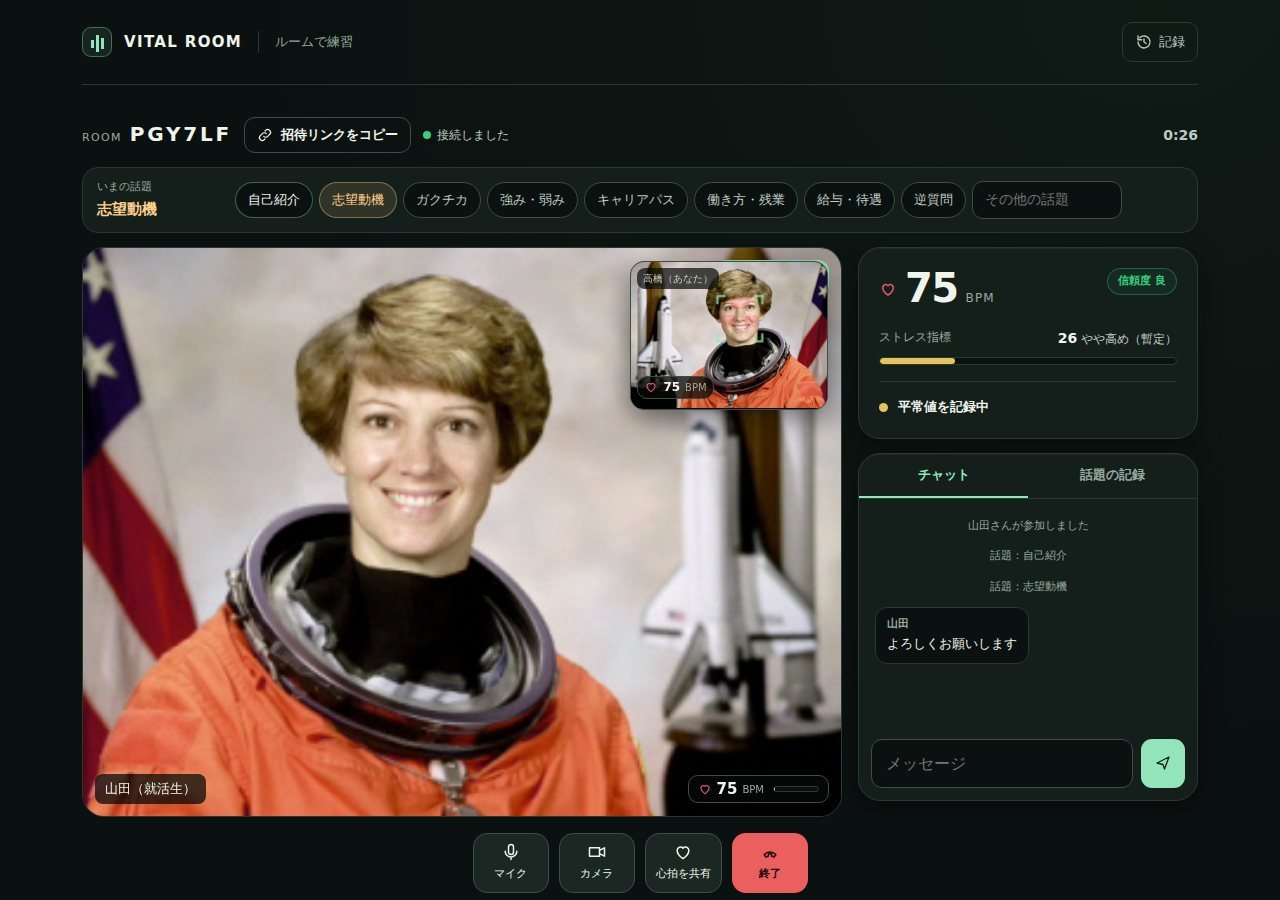
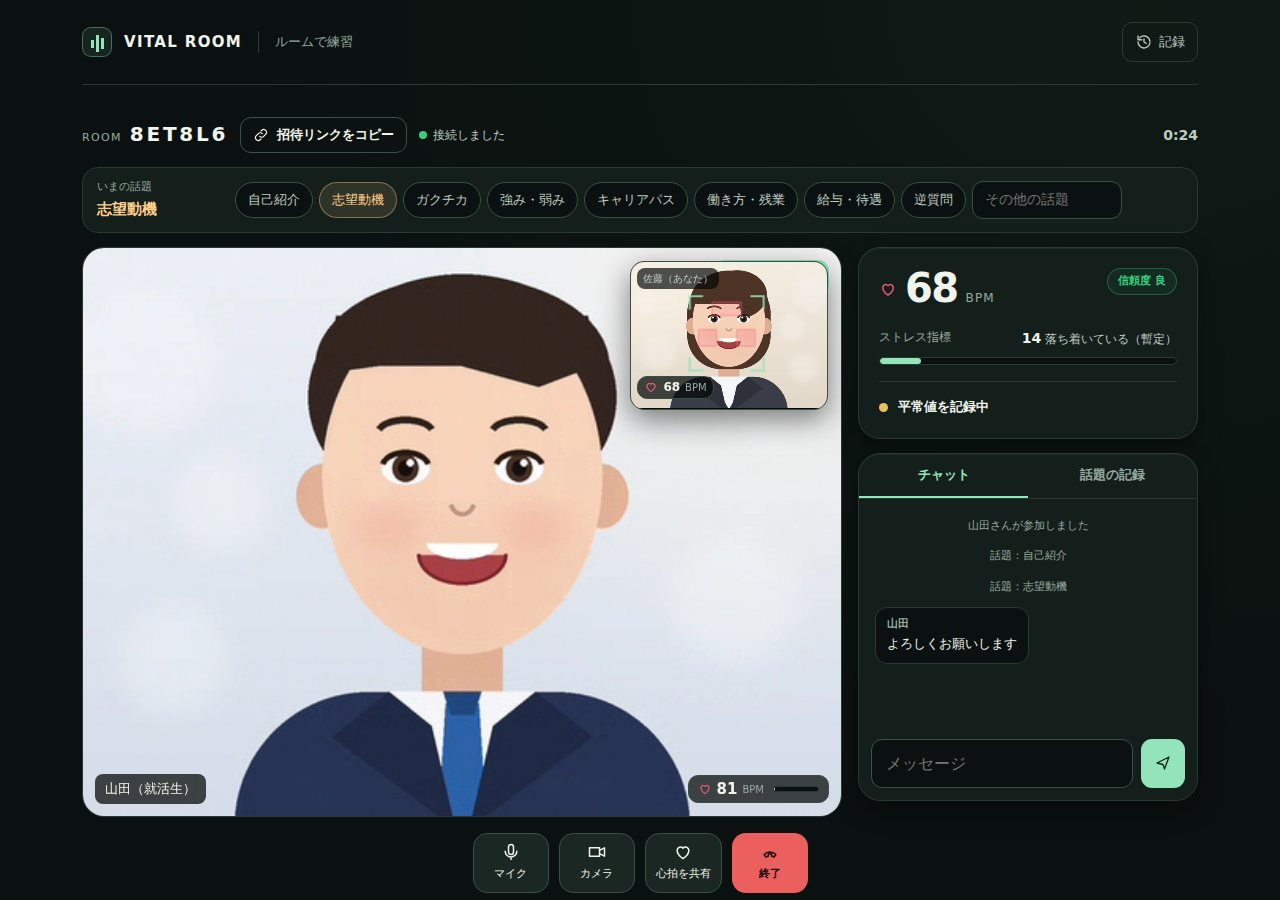
AI-SHOW: チームのフル版と Web 版を並べて紹介し、見本の映像をイラストに

diff --git a/case-05.html b/case-05.html
@@ -4,14 +4,14 @@
 <meta charset="UTF-8">
 <meta name="viewport" content="width=device-width, initial-scale=1.0">
 <title>AI-SHOW（相性） | 髙橋 春喜</title>
-<meta name="description" content="Web面接の映像だけで心拍・ストレスを推定し、互いの緊張を「同意のうえで」共有する。率直な対話を後押しするために、チームで開発したハッカソン作品です。">
+<meta name="description" content="Web面接の映像だけで心拍・ストレスを推定し、互いの緊張を「同意のうえで」共有する。率直な対話を後押しするために、チームで開発したハッカソン作品です。大会後には、だれでもすぐ試せるように、サーバー不要のWeb版を追加しました(チームのフル版はそのまま残しています)。">
 <meta name="theme-color" content="#0A1210">
 <link rel="icon" type="image/svg+xml" href="assets/favicon.svg">
 <link rel="icon" type="image/png" sizes="32x32" href="assets/favicon-32.png">
 <link rel="apple-touch-icon" href="assets/apple-touch-icon.png">
 <meta property="og:type" content="article">
 <meta property="og:title" content="AI-SHOW（相性） | 髙橋 春喜">
-<meta property="og:description" content="Web面接の映像だけで心拍・ストレスを推定し、互いの緊張を「同意のうえで」共有する。率直な対話を後押しするために、チームで開発したハッカソン作品です。">
+<meta property="og:description" content="Web面接の映像だけで心拍・ストレスを推定し、互いの緊張を「同意のうえで」共有する。率直な対話を後押しするために、チームで開発したハッカソン作品です。大会後には、だれでもすぐ試せるように、サーバー不要のWeb版を追加しました(チームのフル版はそのまま残しています)。">
 <meta property="og:image" content="https://haru-ki417.github.io/portfolio/assets/og-image.png">
 <meta property="og:url" content="https://haru-ki417.github.io/portfolio/case-05.html">
 <meta name="twitter:card" content="summary_large_image">
@@ -61,8 +61,8 @@
     <a class="back-link" href="index.html#p-aishow">← 制作物一覧に戻る</a>
     <div class="p-kicker">CASE 05 — TEAM HACKATHON × BIOSIGNAL</div>
     <h1>AI-SHOW（相性）</h1>
-    <p class="lede">Web面接の映像だけで心拍・ストレスを推定し、互いの緊張を「同意のうえで」共有する。率直な対話を後押しするために、チームで開発したハッカソン作品です。</p>
-    <dl class="detail-meta"><div><dt>TYPE</dt><dd>チーム開発(ハッカソン)</dd></div><div><dt>ROLE</dt><dd>リーダー — 企画・フロント・バック・資料・発表</dd></div><div><dt>PLATFORM</dt><dd>Web (Next.js + FastAPI) ・ サーバー不要のWeb版</dd></div><div><dt>LINKS</dt><dd><a href="https://haru-ki417.github.io/Harinezumi-AI-Hack/" target="_blank" rel="noopener">Web版を開く ↗</a><br><a href="https://github.com/haru-ki417/Harinezumi-AI-Hack" target="_blank" rel="noopener">GitHub ↗</a></dd></div><div><dt>STACK</dt><dd>rPPG, WebRTC, numpy / scipy</dd></div></dl>
+    <p class="lede">Web面接の映像だけで心拍・ストレスを推定し、互いの緊張を「同意のうえで」共有する。率直な対話を後押しするために、チームで開発したハッカソン作品です。大会後には、だれでもすぐ試せるように、サーバー不要のWeb版を追加しました(チームのフル版はそのまま残しています)。</p>
+    <dl class="detail-meta"><div><dt>TYPE</dt><dd>チーム開発(ハッカソン)</dd></div><div><dt>ROLE</dt><dd>リーダー — 企画・フロント・バック・資料・発表</dd></div><div><dt>PLATFORM</dt><dd>フル版: Web (Next.js + FastAPI)<br>Web版: ブラウザーだけ</dd></div><div><dt>LINKS</dt><dd><a href="https://haru-ki417.github.io/Harinezumi-AI-Hack/" target="_blank" rel="noopener">Web版を開く ↗</a><br><a href="https://github.com/haru-ki417/Harinezumi-AI-Hack/tree/main/vital-room" target="_blank" rel="noopener">フル版のソース ↗</a><br><a href="https://github.com/haru-ki417/Harinezumi-AI-Hack/tree/main/vital-room/web" target="_blank" rel="noopener">Web版のソース ↗</a></dd></div><div><dt>STACK</dt><dd>rPPG, WebRTC, numpy / scipy</dd></div></dl>
   </div>
 </section>
 
@@ -70,13 +70,19 @@
   <div class="wrap">
     <div class="reveal"><div class="detail-gallery two"><figure class="detail-visual"><a href="assets/vitalroom-interview.jpg" target="_blank" rel="noopener" title="拡大表示"><img src="assets/vitalroom-interview.jpg" width="1400" height="709" alt="AI-SHOWの面接ルーム画面。面接官と応募者それぞれの心拍数・ストレス・HRVが表示されている"></a><figcaption>面接ルーム — 面接官と応募者、双方の心拍・ストレスをリアルタイム表示</figcaption></figure><figure class="detail-visual"><a href="assets/vitalroom-ai-session.jpg" target="_blank" rel="noopener" title="拡大表示"><img src="assets/vitalroom-ai-session.jpg" width="1400" height="725" alt="AI-SHOWのAI音声面接画面。AI面接官のアバター、質問、残り時間、保存された会話" loading="lazy"></a><figcaption>AI音声面接 — AI面接官が質問を読み上げ、回答を記録</figcaption></figure></div></div>
     <div class="detail-cols">
-      <nav class="toc" aria-label="目次"><div class="toc-label">CONTENTS</div><ol><li><a href="#overview">概要</a></li><li><a href="#web">サーバー不要のWeb版</a></li><li><a href="#rppg">rPPGによる非接触バイタル推定</a></li><li><a href="#privacy">同意ファーストのプライバシー設計</a></li><li><a href="#interview">AI面接モードと、面接後のレポート</a></li><li><a href="#lead">リーダーとして担ったこと</a></li><li><a href="#next">今後の展望</a></li></ol></nav>
+      <nav class="toc" aria-label="目次"><div class="toc-label">CONTENTS</div><ol><li><a href="#overview">概要</a></li><li><a href="#rppg">rPPGによる非接触バイタル推定</a></li><li><a href="#privacy">同意ファーストのプライバシー設計</a></li><li><a href="#interview">AI面接モードと、面接後のレポート</a></li><li><a href="#lead">リーダーとして担ったこと</a></li><li><a href="#web">サーバー不要のWeb版(大会後に追加)</a></li><li><a href="#next">今後の展望</a></li></ol></nav>
       <div>
         <section class="dsec reveal" id="overview"><span class="sec-num">01</span><h2>概要</h2><p>面接は、お互いに緊張している場です。AI-SHOW(相性)は、その緊張を心拍・ストレスという生体信号から推定し、<strong>本人の同意のもとで相手と共有する</strong>ことで、より率直な対話を後押しすることを目指したサービスです。嘘を見抜くためのツールではありません。</p>
-      <table class="spec-table"><tr><td>チーム</td><td>Life &amp; Medical Hackers(ハッカソン)</td></tr><tr><td>担当</td><td>チームリーダー / 企画・フロントエンド・バックエンド・資料作成・発表</td></tr><tr><td>フロントエンド</td><td>Next.js 14, WebRTC, Web Speech API</td></tr><tr><td>バックエンド</td><td>FastAPI, numpy / scipy(信号処理), SQLite</td></tr></table></section><section class="dsec reveal" id="web"><span class="sec-num">02</span><h2>サーバー不要のWeb版</h2><p class="web-try"><b>Web版</b> <a href="https://haru-ki417.github.io/Harinezumi-AI-Hack/" target="_blank" rel="noopener">haru-ki417.github.io/Harinezumi-AI-Hack/</a> — インストールも登録も不要で、スマホからも使えます。</p><p>大会で作ったフル版はNext.jsとFastAPIのサーバーで動きます。だれでもすぐ試せるように、バックエンドの信号処理(POS法・帯域通過フィルター・FFT・HRV・平常値との比較)と、面接の深掘り質問・振り返りのロジックをJavaScriptに移植し、ブラウザーの中だけで動くWeb版を作りました。チームのリポジトリには、既存のコードを変えずに別のフォルダーとして追加しています。</p><figure class="detail-visual"><img src="assets/vitalroom-web-room.jpg" width="1280" height="900" alt="Web版のルーム画面。相手の映像に心拍が重なり、話題の切り替えとチャットが並ぶ" loading="lazy"><figcaption>Web版のルーム — 2人がP2Pでつながり、話題ごとの心拍の変化を記録する</figcaption></figure><ul class="feat-list"><li><b>ひとりで計測</b>: 顔検出(MediaPipe)→額と両頬の肌の色→脈波→心拍・RMSSD・SDNN・ストレス指標</li><li><b>ルームで練習</b>: PeerJS(WebRTC)で2人を直接つなぎ、数値・話題・チャットを共有。映像通話は双方が選んだときだけ</li><li><b>AI面接練習</b>: 回答に合わせて理由・結果・学びを深掘りし、発言を引用した振り返りを作る(合否・性格・生体情報は使わない)</li><li><b>移植の検証</b>: 同じ入力をPython版とWeb版に与え、脈波の差が1e-11以下、BPM・HRV・状態の移り変わり・質問の選択・振り返りの内容が完全に一致することを確認</li></ul></section><section class="dsec reveal" id="rppg"><span class="sec-num">03</span><h2>rPPGによる非接触バイタル推定</h2><p>皮膚の色は、心拍に合わせてごくわずかに変化します。rPPG(remote photoplethysmography)はこの変化をカメラ映像から読み取る技術です。WebRTCで受け取った顔映像から関心領域(ROI)を切り出し、次のパイプラインで心拍数・HRV・ストレス推定値を算出しています。</p>
+      <table class="spec-table"><tr><td>チーム</td><td>Life &amp; Medical Hackers(ハッカソン)</td></tr><tr><td>担当</td><td>チームリーダー / 企画・フロントエンド・バックエンド・資料作成・発表</td></tr><tr><td>フロントエンド</td><td>Next.js 14, WebRTC, Web Speech API</td></tr><tr><td>バックエンド</td><td>FastAPI, numpy / scipy(信号処理), SQLite</td></tr></table>
+      <h3 class="sub-h">2つの版</h3>
+      <div class="table-scroll"><table class="spec-table versions"><tr><td></td><td><b>フル版</b>(チームで開発)</td><td><b>Web版</b>(大会後に追加)</td></tr>
+      <tr><td>動かし方</td><td>Next.js と FastAPI のサーバーを起動</td><td>ページを開くだけ(スマホも可)</td></tr>
+      <tr><td>心拍の計算</td><td>サーバー(Python)</td><td>端末のブラウザー(JavaScriptに移植)</td></tr>
+      <tr><td>面接</td><td>企業向けの面接管理・応募者の招待・集計、AI音声面接、人対人の面接</td><td>ひとりで計測、2人のルーム練習、AI面接練習</td></tr>
+      <tr><td>ソース</td><td><a href="https://github.com/haru-ki417/Harinezumi-AI-Hack/tree/main/vital-room" target="_blank" rel="noopener">vital-room</a></td><td><a href="https://github.com/haru-ki417/Harinezumi-AI-Hack/tree/main/vital-room/web" target="_blank" rel="noopener">vital-room/web</a></td></tr></table></div></section><section class="dsec reveal" id="rppg"><span class="sec-num">02</span><h2>rPPGによる非接触バイタル推定</h2><p>皮膚の色は、心拍に合わせてごくわずかに変化します。rPPG(remote photoplethysmography)はこの変化をカメラ映像から読み取る技術です。WebRTCで受け取った顔映像から関心領域(ROI)を切り出し、次のパイプラインで心拍数・HRV・ストレス推定値を算出しています。</p>
       <ol class="pipeline"><li><b>顔ROI抽出</b>ROIを安定化</li><li><b>POS法</b>Wang, 2017</li><li><b>帯域通過</b>0.7–4.0 Hz</li><li><b>FFT</b>ピークをサブビン補間</li><li><b>出力</b>心拍・HRV・ストレス</li></ol>
-      <p>0.7〜4.0Hzは心拍数42〜240bpmに相当する帯域です。信号処理はすべてFastAPI側(numpy/scipy)で15〜30fpsで行い、ROIの安定化によって体動や照明変化の影響を抑えています。</p></section><section class="dsec reveal" id="privacy"><span class="sec-num">04</span><h2>同意ファーストのプライバシー設計</h2><p>カメラ映像そのものは一切保存せず、明示的な同意チェックを得たうえで、最大1秒に1回の数値データだけを相手に共有します。</p>
-      <p>推定が不安定なときは「顔を検出できません」「脈波が安定していません」といった具体的なメッセージを表示し、精度が照明や体動に左右されること、医療行為や合否判定のためのツールではないことをUI上で明示しています。</p><div class="callout"><b>DESIGN POINT</b>生体データは、本人が「見せてもいい」と選んだときにだけ共有される。技術よりも先に、この前提を設計の中心に置きました。</div></section><section class="dsec reveal" id="interview"><span class="sec-num">05</span><h2>AI面接モードと、面接後のレポート</h2><p>AIによる音声面接モード(Web Speech APIによる読み上げ・文字起こし)と、人対人の面接モードの両方に対応し、画面共有やリアルタイム文字起こしも実装しました。面接後には、AI面接官によるフィードバックレポートと、エントリーシートの内容とのマッチングサマリーを自動生成し、記録をSQLite・JSON・CSVで保存できます。</p><ul class="feat-list"><li>Webカメラ映像のみで心拍数・HRV・ストレス値を非接触推定(rPPG / POS法)</li><li>同意チェック必須、映像は保存せず数値のみを共有</li><li>AI音声面接/人対人面接の両モード、リアルタイム文字起こし・画面共有</li><li>面接後のAIフィードバックレポートと、ES照合サマリーの自動生成</li></ul></section><section class="dsec reveal" id="lead"><span class="sec-num">06</span><h2>リーダーとして担ったこと</h2><p>企画のアイデア出しから、フロントエンドとバックエンドの実装、発表資料の作成、本番のプレゼンテーションまで、プロダクトの最初から最後までを担当しました。</p></section><section class="dsec reveal" id="next"><span class="sec-num">07</span><h2>今後の展望</h2><p>実際のパルスオキシメーターとの比較による精度検証、TURNサーバーの導入と本番HTTPS環境へのデプロイ、複数人・複数面接への対応を予定しています。</p></section>
+      <p>0.7〜4.0Hzは心拍数42〜240bpmに相当する帯域です。信号処理はすべてFastAPI側(numpy/scipy)で15〜30fpsで行い、ROIの安定化によって体動や照明変化の影響を抑えています。</p></section><section class="dsec reveal" id="privacy"><span class="sec-num">03</span><h2>同意ファーストのプライバシー設計</h2><p>カメラ映像そのものは一切保存せず、明示的な同意チェックを得たうえで、最大1秒に1回の数値データだけを相手に共有します。</p>
+      <p>推定が不安定なときは「顔を検出できません」「脈波が安定していません」といった具体的なメッセージを表示し、精度が照明や体動に左右されること、医療行為や合否判定のためのツールではないことをUI上で明示しています。</p><div class="callout"><b>DESIGN POINT</b>生体データは、本人が「見せてもいい」と選んだときにだけ共有される。技術よりも先に、この前提を設計の中心に置きました。</div></section><section class="dsec reveal" id="interview"><span class="sec-num">04</span><h2>AI面接モードと、面接後のレポート</h2><p>AIによる音声面接モード(Web Speech APIによる読み上げ・文字起こし)と、人対人の面接モードの両方に対応し、画面共有やリアルタイム文字起こしも実装しました。面接後には、AI面接官によるフィードバックレポートと、エントリーシートの内容とのマッチングサマリーを自動生成し、記録をSQLite・JSON・CSVで保存できます。</p><ul class="feat-list"><li>Webカメラ映像のみで心拍数・HRV・ストレス値を非接触推定(rPPG / POS法)</li><li>同意チェック必須、映像は保存せず数値のみを共有</li><li>AI音声面接/人対人面接の両モード、リアルタイム文字起こし・画面共有</li><li>面接後のAIフィードバックレポートと、ES照合サマリーの自動生成</li></ul></section><section class="dsec reveal" id="lead"><span class="sec-num">05</span><h2>リーダーとして担ったこと</h2><p>企画のアイデア出しから、フロントエンドとバックエンドの実装、発表資料の作成、本番のプレゼンテーションまで、プロダクトの最初から最後までを担当しました。</p></section><section class="dsec reveal" id="web"><span class="sec-num">06</span><h2>サーバー不要のWeb版(大会後に追加)</h2><p class="web-try"><b>Web版</b> <a href="https://haru-ki417.github.io/Harinezumi-AI-Hack/" target="_blank" rel="noopener">haru-ki417.github.io/Harinezumi-AI-Hack/</a> — インストールも登録も不要で、スマホからも使えます。</p><p>大会で作ったフル版はNext.jsとFastAPIのサーバーで動きます。だれでもすぐ試せるように、バックエンドの信号処理(POS法・帯域通過フィルター・FFT・HRV・平常値との比較)と、面接の深掘り質問・振り返りのロジックをJavaScriptに移植し、ブラウザーの中だけで動くWeb版を作りました。チームで作ったフル版のコードには手を加えず、同じリポジトリに別のフォルダーとして追加しています。</p><figure class="detail-visual"><img src="assets/vitalroom-web-room.jpg" width="1280" height="900" alt="Web版のルーム画面。相手の映像に心拍が重なり、話題の切り替えとチャットが並ぶ" loading="lazy"><figcaption>Web版のルーム — 2人がP2Pでつながり、話題ごとの心拍の変化を記録する(映像は動作確認用のイラスト)</figcaption></figure><ul class="feat-list"><li><b>ひとりで計測</b>: 顔検出(MediaPipe)→額と両頬の肌の色→脈波→心拍・RMSSD・SDNN・ストレス指標</li><li><b>ルームで練習</b>: PeerJS(WebRTC)で2人を直接つなぎ、数値・話題・チャットを共有。映像通話は双方が選んだときだけ</li><li><b>AI面接練習</b>: 回答に合わせて理由・結果・学びを深掘りし、発言を引用した振り返りを作る(合否・性格・生体情報は使わない)</li><li><b>移植の検証</b>: 同じ入力をPython版とWeb版に与え、脈波の差が1e-11以下、BPM・HRV・状態の移り変わり・質問の選択・振り返りの内容が完全に一致することを確認</li></ul></section><section class="dsec reveal" id="next"><span class="sec-num">07</span><h2>今後の展望</h2><p>実際のパルスオキシメーターとの比較による精度検証、TURNサーバーの導入と本番HTTPS環境へのデプロイ、複数人・複数面接への対応を予定しています。</p></section>
         <nav class="case-nav reveal" aria-label="制作物ナビゲーション"><a class="prev" href="case-04.html"><span class="cn-dir">← PREVIOUS</span><span class="cn-title">Ultimate USB</span></a><a class="next" href="case-06.html"><span class="cn-dir">NEXT →</span><span class="cn-title">Pulse &amp; Mind Study</span></a></nav>
       </div>
     </div>

diff --git a/assets/style.css b/assets/style.css
@@ -713,3 +713,10 @@ figure.inline-fig.phone{ max-width:260px; background:var(--bg-panel); }
 .web-try b{ display:inline-block; font-family:var(--font-mono); font-size:11px; letter-spacing:.08em; color:var(--vital); font-weight:500; margin-right:8px; }
 .web-try a{ color:var(--vital); font-weight:600; word-break:break-all; }
 @media print{ .web-try{ background:none; } }
+
+/* 版の比較表（事例ページ） */
+.sub-h{ font-size:16px; margin:32px 0 4px; color:var(--heading); }
+.table-scroll{ overflow-x:auto; }
+.spec-table.versions td{ vertical-align:top; }
+.spec-table.versions tr:first-child td{ font-size:13px; color:var(--heading); }
+.spec-table.versions td:nth-child(2), .spec-table.versions td:nth-child(3){ width:40%; }
